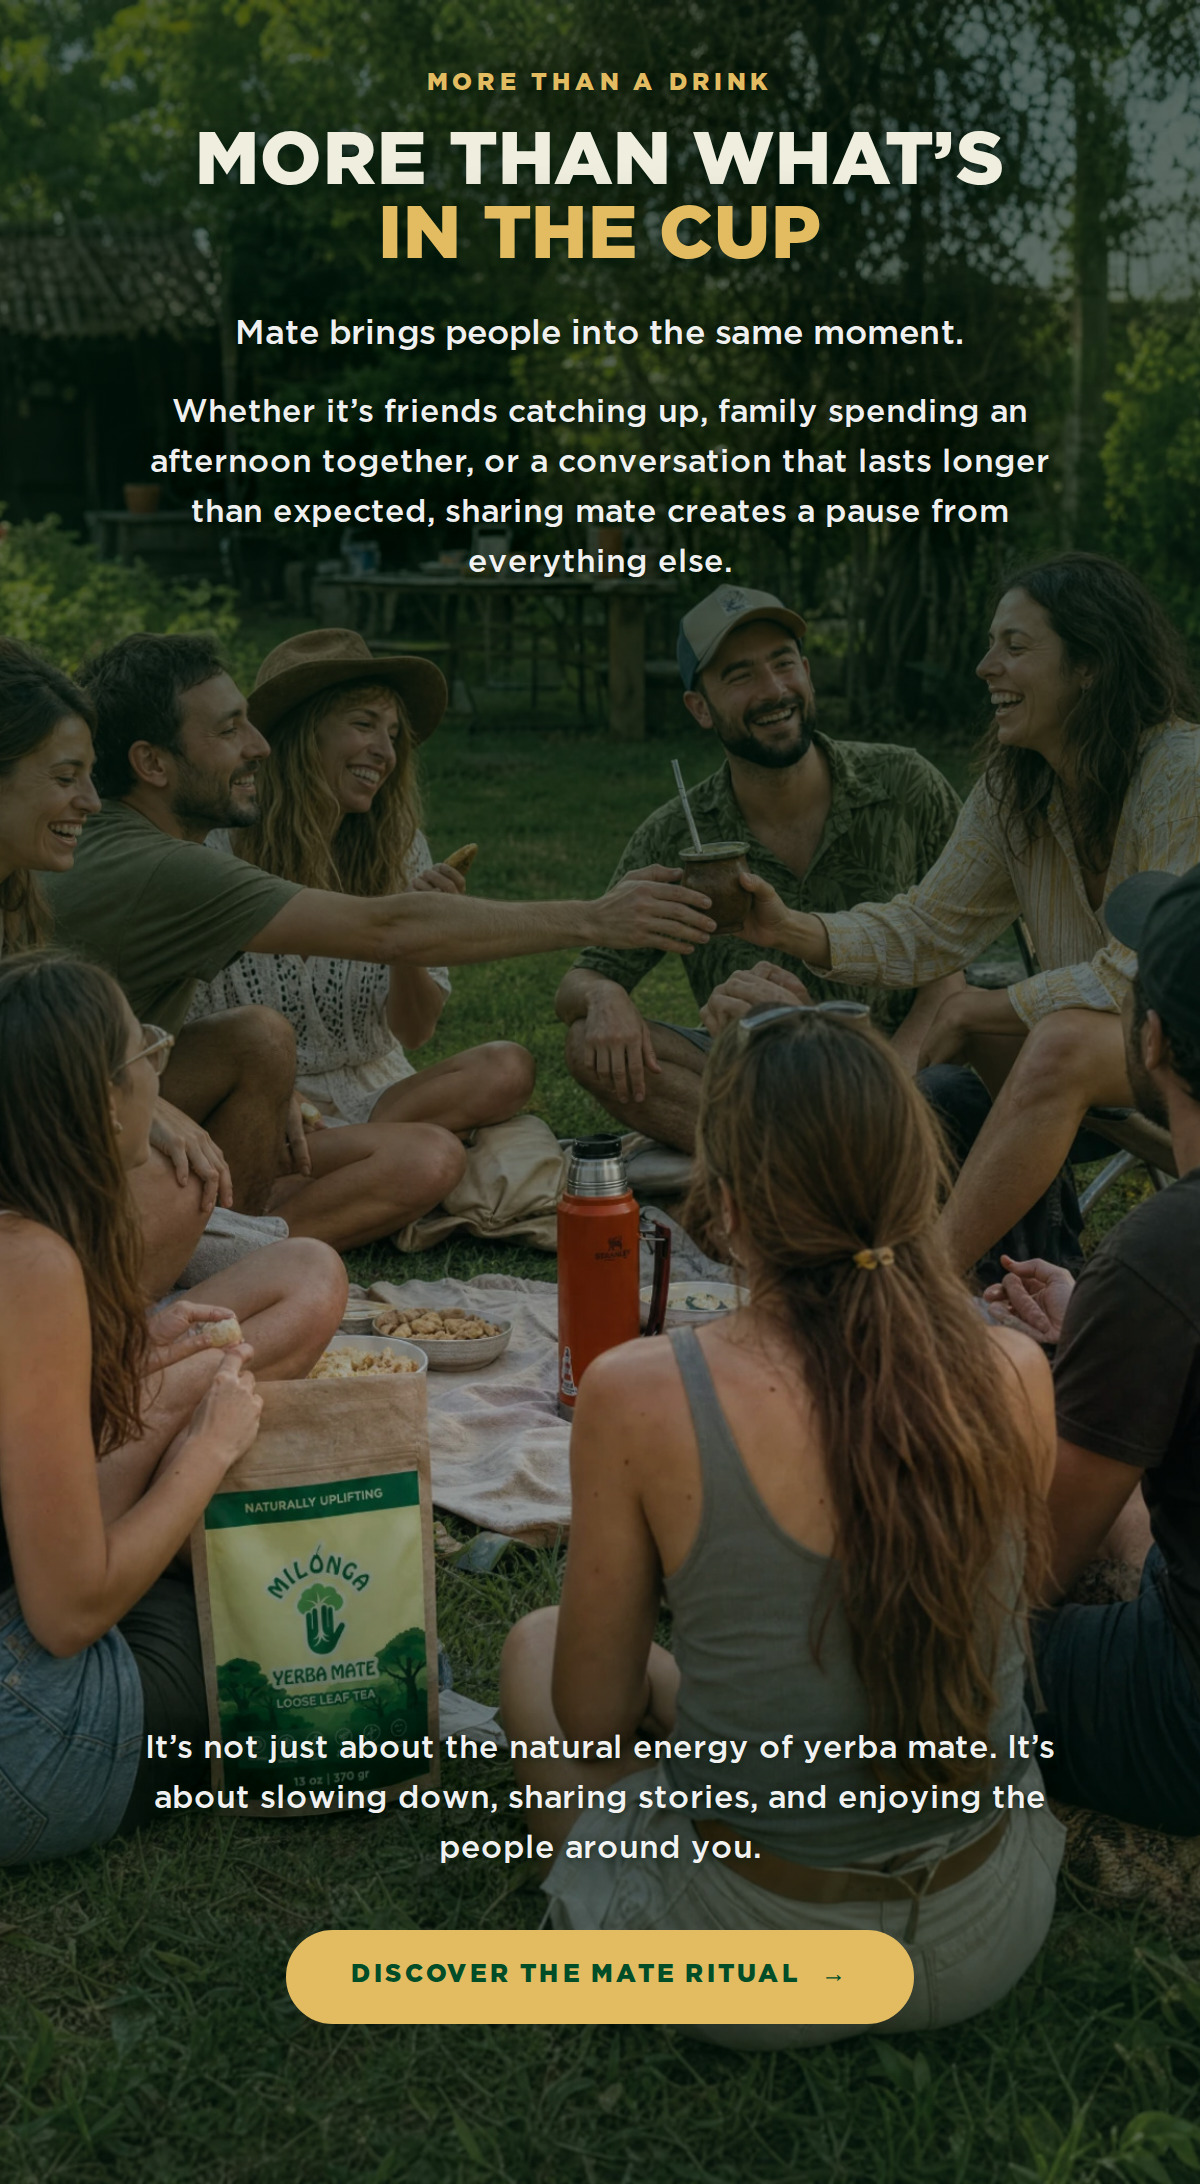
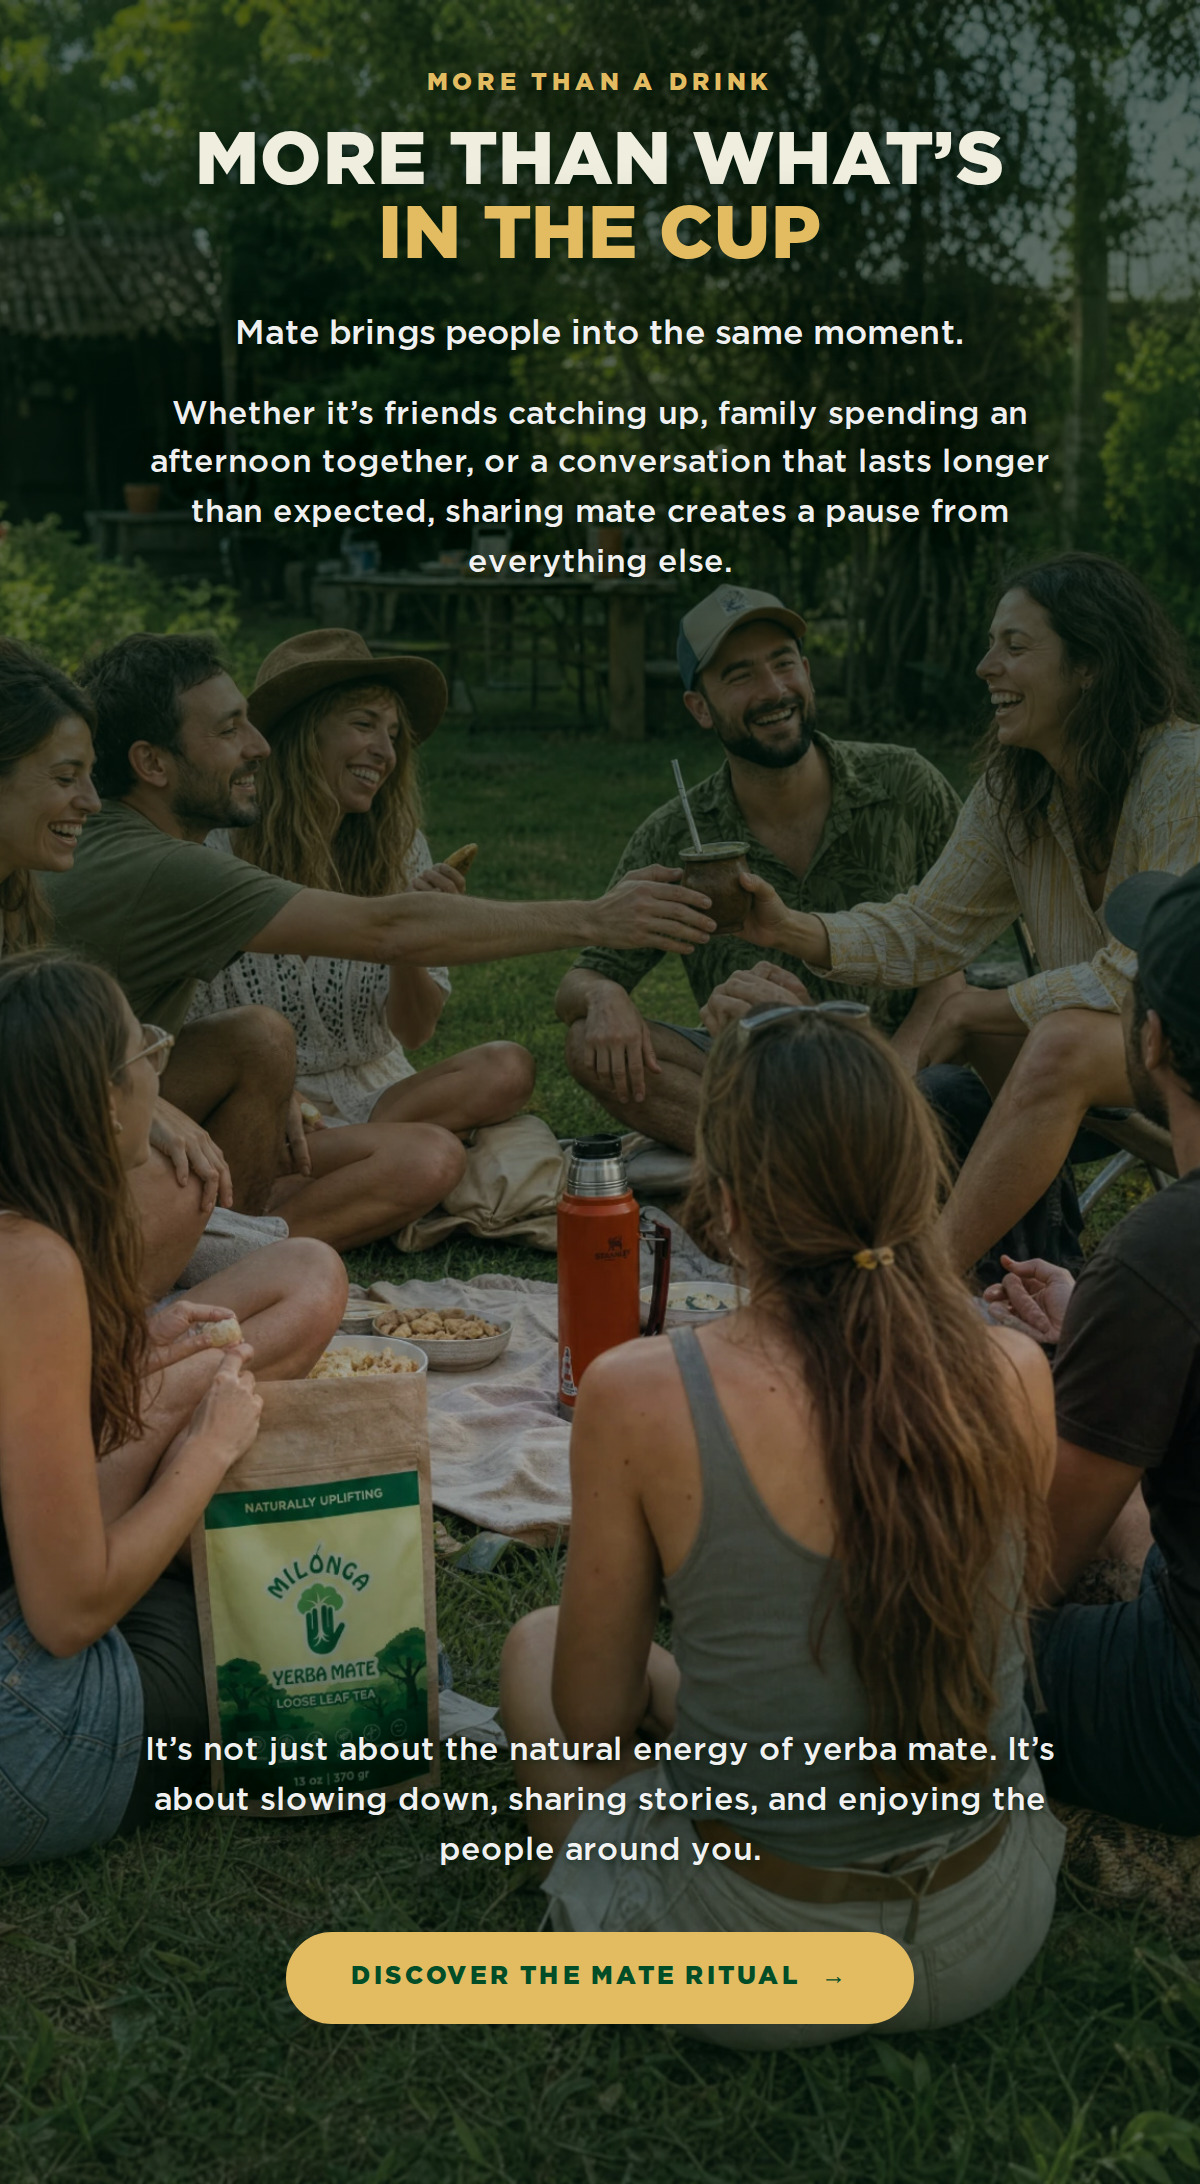
Put section 1's CTA back on the picture; move section 3 onto the product art
SECTION 1 — the button goes back inside the frame, which means the frame has
to make room for it. Raising the ratio 1.62 to 1.80 is what does that: the
copy block's height is fixed and anchored at the top, so a taller frame pushes
the gourd and the hands further down in absolute terms and opens a clear gap
between the last line of copy and the rim of the gourd. Widening the measure
to 500 saves the paragraph a line, which buys the rest. The pill now sits in
open grass with the pack untouched below it, so nothing is covered either way.

SECTION 3 — the supplied still life becomes the background. Its ground is
already Milonga forest, so the section still reads as the colour change that
closes the email; the products just arrive inside it instead of after it.

The art is cropped 190px off the left of the file as supplied. The acai-mint
can on that edge carries "10mg THC | 10mg CBD" on its label, legible at export
size, and that wording cannot appear in anything a customer sees. Retouching
it was tried first and rejected: the band is full of white ink on a lit,
tilted surface, so every version read as a smudge on the pack, which is worse
for the brand than losing the can. The crop removes it outright and the gourd
bleeding off the edge reads as composition rather than as a crop.

Also T9Story:
- `lead`, one sentence in the accent between title and body, mirroring T10Close
  so a section can move onto a photograph without losing its emphasis.
[…]

diff --git a/email-ds/src/components/HeroTemplates.tsx b/email-ds/src/components/HeroTemplates.tsx
@@ -965,6 +965,8 @@ export interface T9Props {
   line1: string;
   /** Second title line, in the accent. */
   line2?: string;
+  /** One sentence in the accent, between the title and the body. */
+  lead?: string;
   /** The paragraphs, in order. The first is set a little larger as a lead. */
   paras?: string[];
   /**
@@ -993,6 +995,18 @@ export interface T9Props {
   top?: number;
   /** Measure for the paragraphs. */
   measure?: number;
+  /**
+   * Side padding of the type column. Raising ONE of them slides the whole
+   * centred stack toward the other side.
+   *
+   * A still life's copy space is rarely in the middle — this campaign's closing
+   * art stacks its products down the right, so centred copy runs straight
+   * across the pack. Moving the column into the space the photographer left is
+   * the fix; a narrower measure just makes a thin ribbon that still clips the
+   * product.
+   */
+  padLeft?: number;
+  padRight?: number;
   ratio?: number;
   focus?: string;
   /** Overall scrim strength. Turn down for an already-dark photograph. */
@@ -1008,6 +1022,7 @@ export function T9Story({
   eyebrow,
   line1,
   line2,
+  lead,
   paras = [],
   tailParas = [],
   cta,
@@ -1017,6 +1032,8 @@ export function T9Story({
   size = 38,
   top = 30,
   measure = 452,
+  padLeft = 30,
+  padRight = 30,
   ratio = 1.7,
   focus,
   scrim = 1,
@@ -1052,7 +1069,7 @@ export function T9Story({
         }}
       />
 
-      <div style={{ position: 'absolute', top, left: 0, right: 0, padding: '0 30px', textAlign: 'center' }}>
+      <div style={{ position: 'absolute', top, left: 0, right: 0, padding: `0 ${padRight}px 0 ${padLeft}px`, textAlign: 'center' }}>
         {logo ? (
           <>
             <Logo tone="beige" variant="primary" height={logoHeight} />
@@ -1067,6 +1084,23 @@ export function T9Story({
           <CapsLine text={line2} style={{ ...caps(size, '0.01em', colors.gold), lineHeight: 1.0, textShadow: shadow }} />
         ) : null}
 
+        {lead ? (
+          <div
+            style={{
+              fontFamily: fontStack,
+              fontWeight: 500,
+              fontSize: 19,
+              lineHeight: 1.48,
+              color: colors.gold,
+              maxWidth: measure,
+              margin: '20px auto 0',
+              textShadow: softShadow,
+            }}
+          >
+            {lead}
+          </div>
+        ) : null}
+
         {paras.map((p, i) => (
           <div
             key={i}
@@ -1075,11 +1109,11 @@ export function T9Story({
               fontWeight: 500,
               // The first paragraph is the one everybody reads, so it gets the
               // extra point. The rest settle to the 16px floor.
-              fontSize: i === 0 ? 17 : 16,
+              fontSize: i === 0 && !lead ? 17 : 16,
               lineHeight: 1.56,
               color: 'rgba(255,255,255,0.95)',
               maxWidth: measure,
-              margin: `${i === 0 ? 18 : 14}px auto 0`,
+              margin: `${i === 0 ? (lead ? 16 : 18) : 14}px auto 0`,
               textShadow: softShadow,
             }}
           >
@@ -1089,7 +1123,7 @@ export function T9Story({
       </div>
 
       {(cta && !ctaBelow) || hasTailCopy ? (
-        <div style={{ position: 'absolute', top: at, left: 0, right: 0, padding: '0 30px', textAlign: 'center' }}>
+        <div style={{ position: 'absolute', top: at, left: 0, right: 0, padding: `0 ${padRight}px 0 ${padLeft}px`, textAlign: 'center' }}>
           {tailParas.map((p, i) => (
             <div
               key={i}
@@ -1117,7 +1151,7 @@ export function T9Story({
     </Frame>
 
     {cta && ctaBelow ? (
-      <div style={{ padding: `${belowPad}px 30px`, textAlign: 'center', ...bgStyle(bg, bgFill[bg]) }}>
+      <div style={{ padding: `${belowPad}px ${padRight}px ${belowPad}px ${padLeft}px`, textAlign: 'center', ...bgStyle(bg, bgFill[bg]) }}>
         {tailParas.map((p, i) => (
           <div
             key={i}

diff --git a/email-ds/emails/mate-ritual.jsx b/email-ds/emails/mate-ritual.jsx
@@ -11,6 +11,7 @@ const h = React.createElement;
 const IMG = {
   passed: '../public/product/mate-passed.jpg',
   circle: '../public/product/mate-circle.jpg',
+  family: '../public/product/milonga-family.jpg',
 };
 
 function MateRitual() {
@@ -33,19 +34,19 @@ function MateRitual() {
       ],
       // One paragraph instead of two, so the frame comes down with it — leaving
       // the old 1.72 would open a dead gap between the copy and the hands.
-      ratio: 1.62,
+      // The button goes back ON the picture, so the frame has to make room for
+      // it. Raising the ratio is what does that: the copy block's height is
+      // fixed and anchored at the top, so a taller frame pushes the gourd and
+      // the hands further down in absolute terms and opens a clear gap between
+      // the last line of copy and the top of the gourd. The measure goes wide
+      // at the same time, which saves the copy a line.
+      ratio: 1.80,
       focus: 'center 50%',
       size: 37,
       top: 28,
-      measure: 460,
-      // The button goes on forest under the picture, not on it. This
-      // photograph runs the pouch almost to the bottom edge and has no quiet
-      // corner left — a pill over the pack would be the same mistake that was
-      // just corrected in section 2.
+      measure: 500,
       cta: { label: 'Discover why we started', href: '#about', arrow: true },
-      ctaBelow: true,
-      bg: 'forest',
-      belowPad: 36,
+      at: '40%',
     }),
 
     // ── 2 · WHAT IT'S REALLY FOR ──────────────────────────────────────────
@@ -77,11 +78,15 @@ function MateRitual() {
     }),
 
     // ── 3 · THE CLOSE ─────────────────────────────────────────────────────
-    // No photograph. After two full-bleed pictures the flat forest field is
-    // the punctuation — it is where the email stops being a story and becomes
-    // an offer.
-    h(M.T10Close, {
-      bg: 'forest',
+    // The product still life. Its ground is already Milonga forest, so the
+    // section still reads as the colour change that closes the email — the
+    // products just arrive inside it instead of after it.
+    //
+    // The art is cropped 190px off the left of the supplied file, which
+    // removes the acai-mint can whose label reads '10mg THC | 10mg CBD'.
+    h(M.T9Story, {
+      src: IMG.family,
+      alt: 'Milonga yerba mate latte pouch, a peach ginger can and a mate gourd among leaves on a deep green ground',
       eyebrow: 'Old tradition, new form',
       line1: 'Bringing the',
       line2: 'ritual forward',
@@ -90,8 +95,18 @@ function MateRitual() {
         'We keep what makes mate special — its natural energy, connection, and culture — and bring it into innovative products made for modern moments. From sparkling yerba mate to our Mate Latte, Milonga is a new way to experience an old tradition.',
       ],
       cta: { label: 'Explore Milonga', href: '#', arrow: true },
-      size: 38,
-      pad: 62,
+      at: '47%',
+      ratio: 1.84,
+      size: 37,
+      top: 110,
+      measure: 380,
+      // The still life stacks its products down the right — pouch high, can
+      // low — so the copy space it left is on the LEFT. Centred type ran
+      // straight across the pack; this slides the whole column into the gap.
+      padRight: 175,
+      // The ground is already near-black green, so the scrim only has to lift
+      // the type off the leaves — not darken a picture that is already dark.
+      scrim: 0.45,
     })
   );
 }
